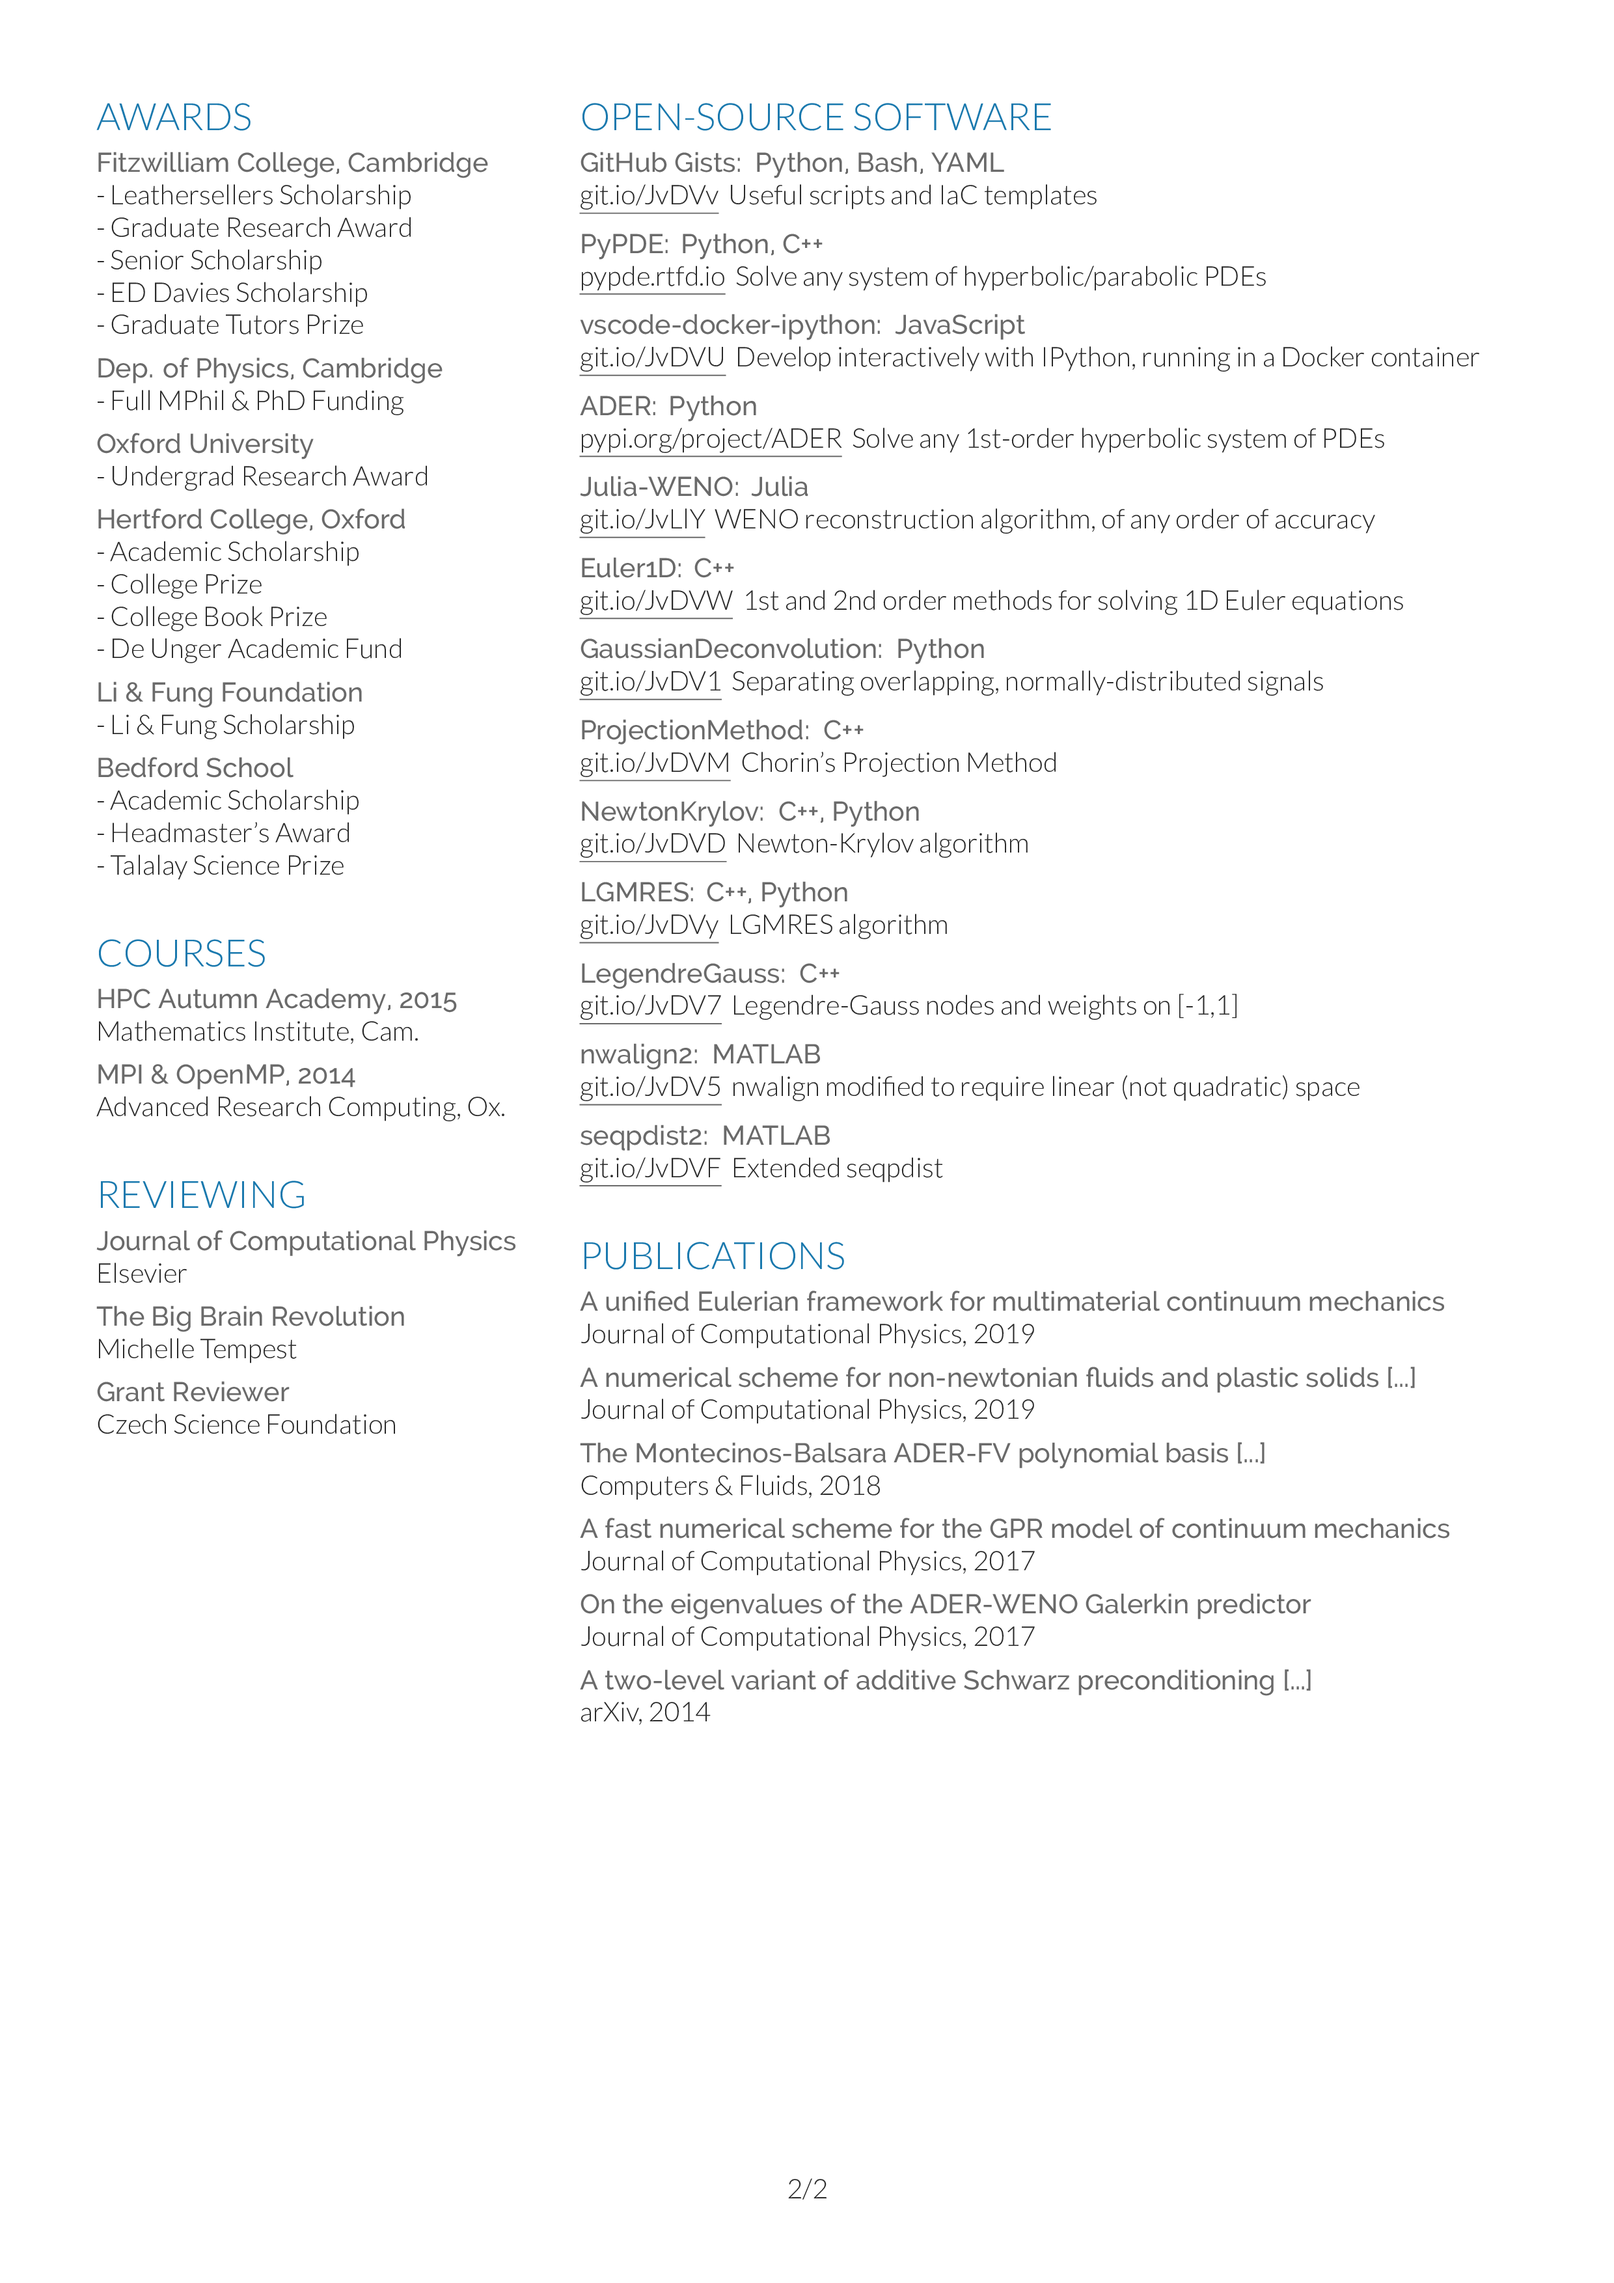
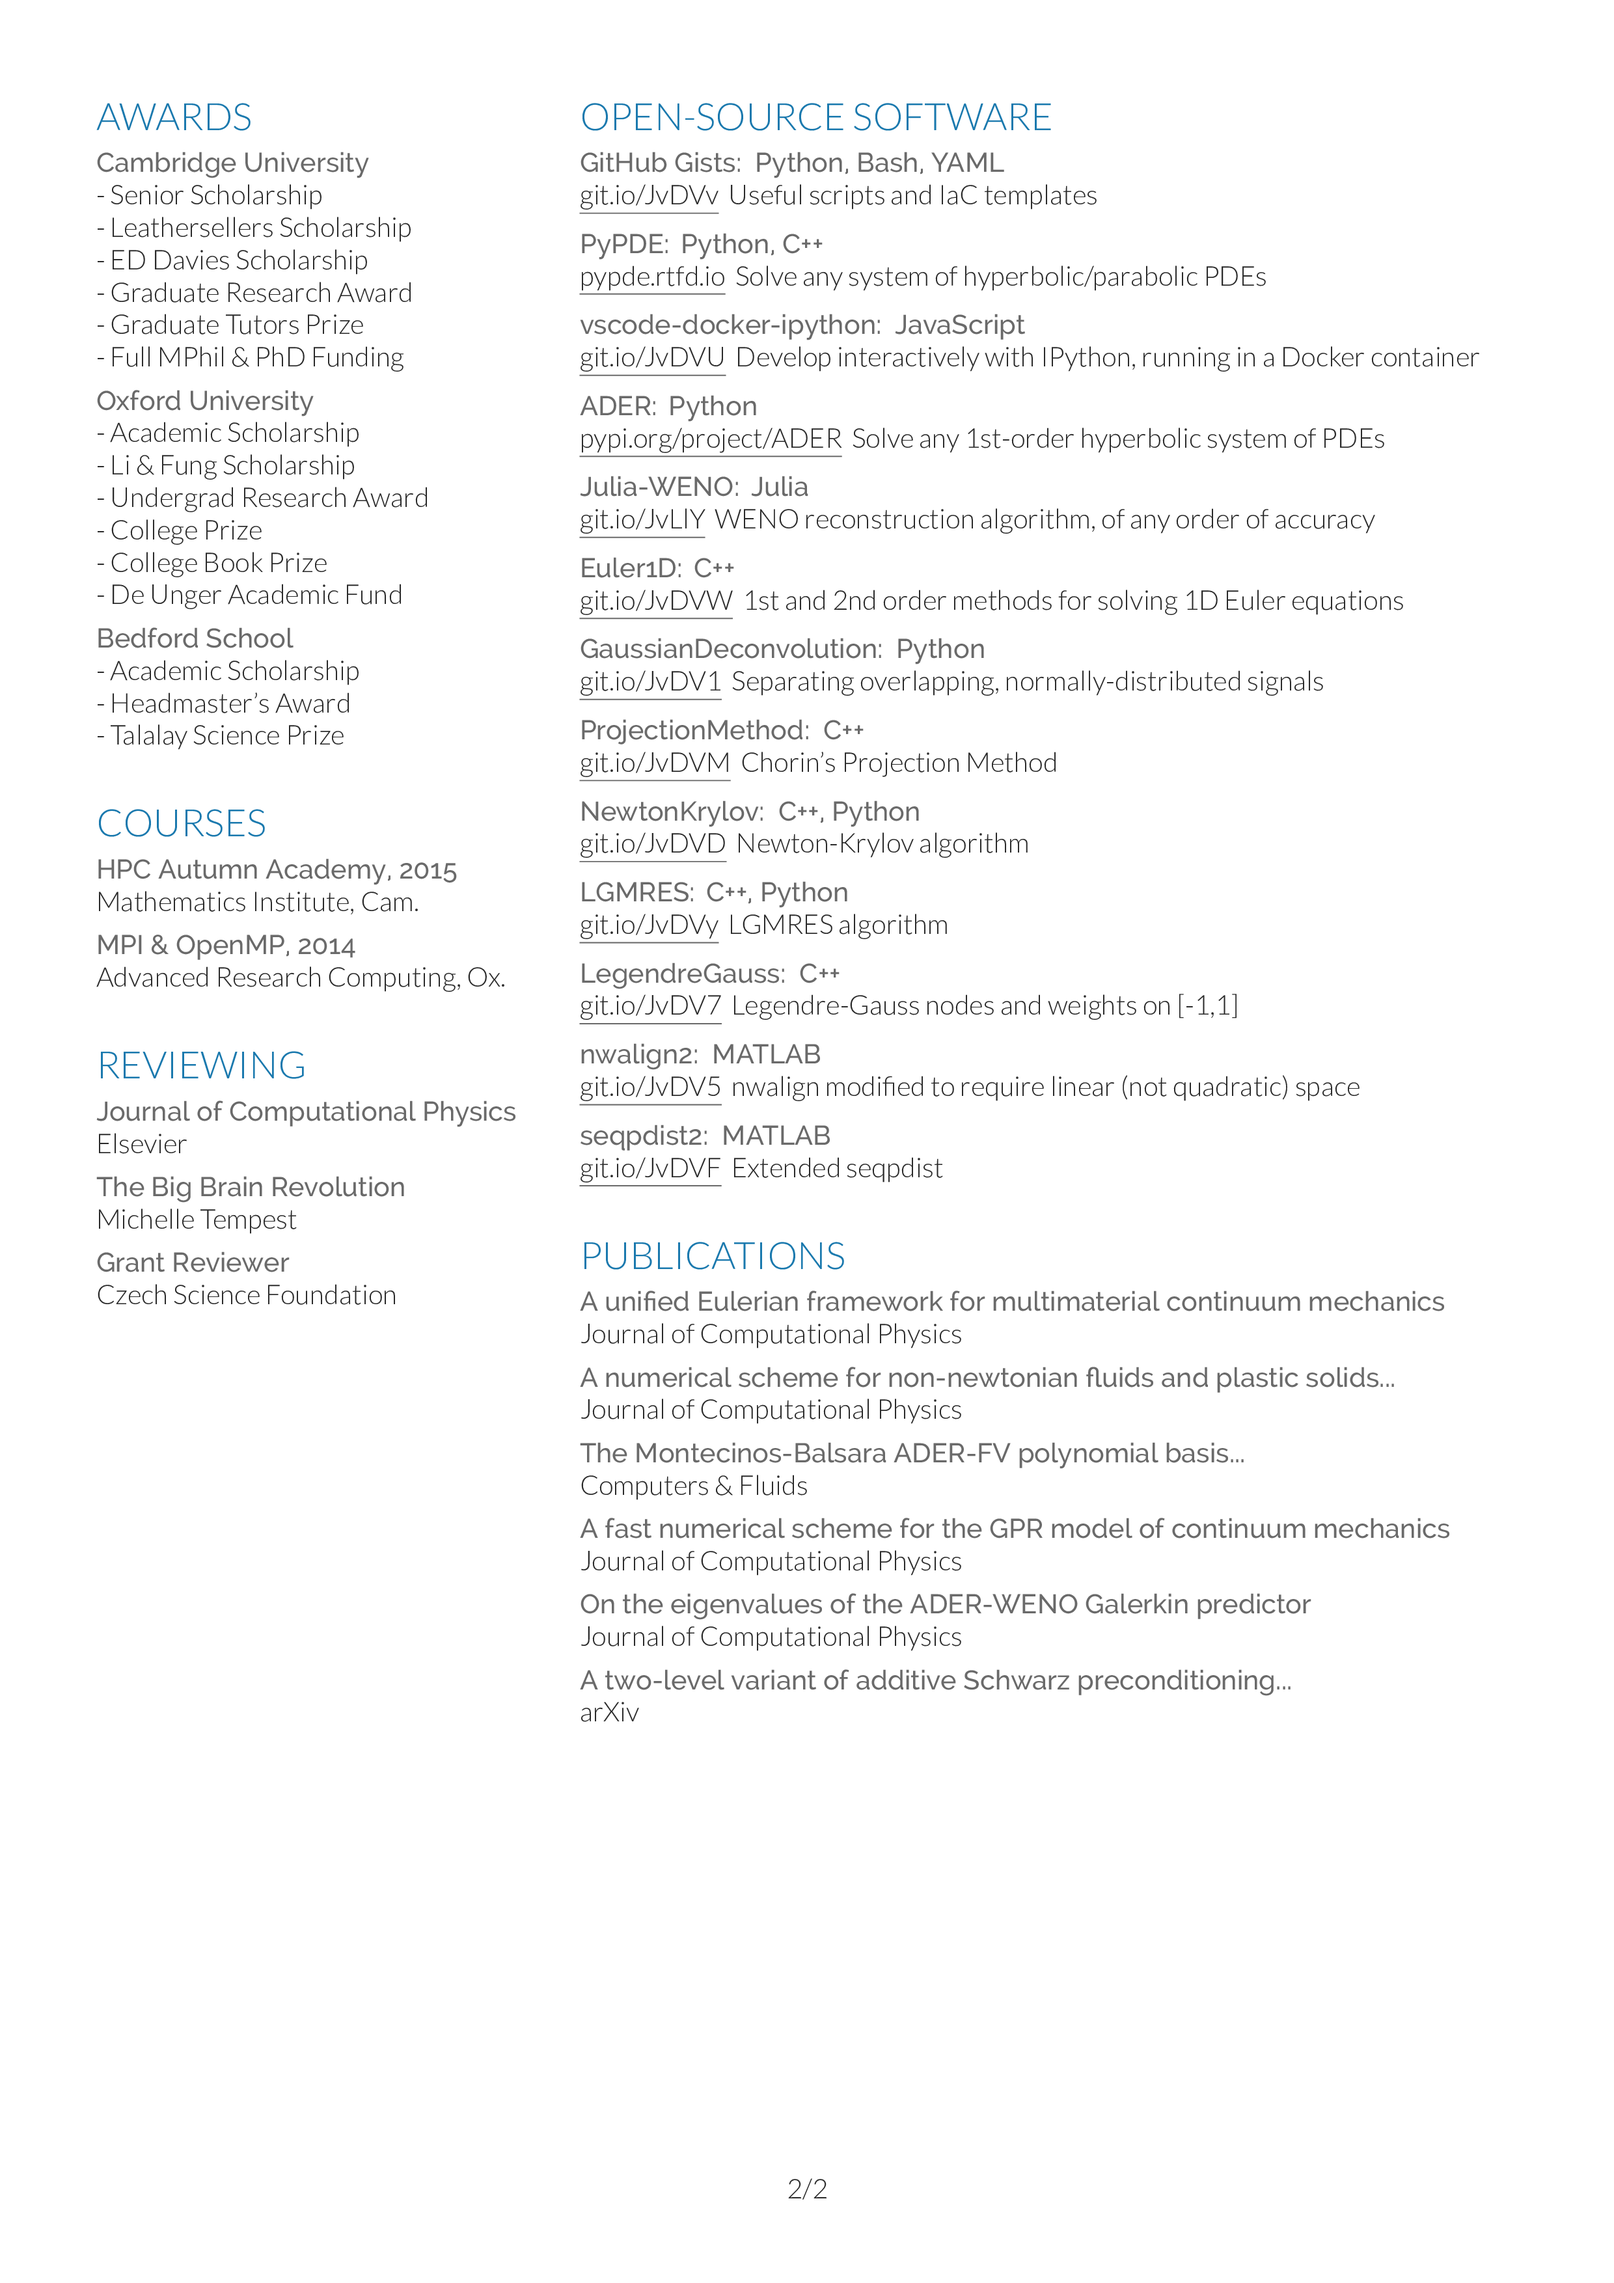
formatting

Changed region(s): [[0.0621, 0.0621, 0.3105, 0.6214]]

diff --git a/index.html b/index.html
@@ -27,12 +27,12 @@
         <div class="col-md-6 col-md-push-6">
           <img
             style="width: 100%;"
-            src="assets/img/HaranJacksonCV-0.png?1584890539"
+            src="assets/img/HaranJacksonCV-0.png?1585234000"
           />
         </div>
         <div class="col-md-6 col-md-push-6">
           <img
-            src="assets/img/HaranJacksonCV-1.png?1584890539"
+            src="assets/img/HaranJacksonCV-1.png?1585234000"
             style="width: 100%;"
           />
         </div>

diff --git a/cv/HaranJacksonCV.tex b/cv/HaranJacksonCV.tex
@@ -268,21 +268,21 @@ microservices \textbullet{} visualization}
 \section{Awards}
 
 \begin{flushleft}
-\details{Fitzwilliam College, Cambridge}    - Leathersellers Scholarship \\
-                                            - Graduate Research Award \\
-                                            - Senior Scholarship \\
-                                            - ED Davies Scholarship \\
-                                            - Graduate Tutors Prize \\ \vspace{4pt}
-\details{Dep. of Physics, Cambridge}        - Full MPhil \& PhD Funding \\ \vspace{4pt}
-\details{Oxford University}                 - Undergrad Research Award \\ \vspace{4pt}
-\details{Hertford College, Oxford}          - Academic Scholarship \\
-                                            - College Prize \\
-                                            - College Book Prize \\
-                                            - De Unger Academic Fund \\ \vspace{4pt}
-\details{Li \& Fung Foundation}             - Li \& Fung Scholarship \\ \vspace{4pt}
-\details{Bedford School}                    - Academic Scholarship \\
-                                            - Headmaster’s Award \\
-                                            - Talalay Science Prize
+\details{Cambridge University}  - Senior Scholarship \\
+                                - Leathersellers Scholarship \\
+                                - ED Davies Scholarship \\
+                                - Graduate Research Award \\
+                                - Graduate Tutors Prize \\
+                                - Full MPhil \& PhD Funding \\ \vspace{4pt}
+\details{Oxford University}     - Academic Scholarship \\
+                                - Li \& Fung Scholarship \\
+                                - Undergrad Research Award \\
+                                - College Prize \\
+                                - College Book Prize \\
+                                - De Unger Academic Fund \\ \vspace{4pt}
+\details{Bedford School}        - Academic Scholarship \\
+                                - Headmaster’s Award \\
+                                - Talalay Science Prize
 \end{flushleft}
 
 %-------------%
@@ -367,22 +367,22 @@ microservices \textbullet{} visualization}
 
 \begin{flushleft}
 \details{A unified Eulerian framework for multimaterial continuum mechanics}
-Journal of Computational Physics, 2019 \\
+Journal of Computational Physics \\
 \vspace{4pt}
-\details{A numerical scheme for non-newtonian fluids and plastic solids [...]}
-Journal of Computational Physics, 2019 \\
+\details{A numerical scheme for non-newtonian fluids and plastic solids...}
+Journal of Computational Physics \\
 \vspace{4pt}
-\details{The Montecinos-Balsara ADER-FV polynomial basis [...]}
-Computers \& Fluids, 2018 \\
+\details{The Montecinos-Balsara ADER-FV polynomial basis...}
+Computers \& Fluids \\
 \vspace{4pt}
 \details{A fast numerical scheme for the GPR model of continuum mechanics}
-Journal of Computational Physics, 2017 \\
+Journal of Computational Physics \\
 \vspace{4pt}
 \details{On the eigenvalues of the ADER-WENO Galerkin predictor}
-Journal of Computational Physics, 2017 \\
+Journal of Computational Physics \\
 \vspace{4pt}
-\details{A two-level variant of additive Schwarz preconditioning [...]}
-arXiv, 2014
+\details{A two-level variant of additive Schwarz preconditioning...}
+arXiv
 \end{flushleft}
 
 \end{minipage}
